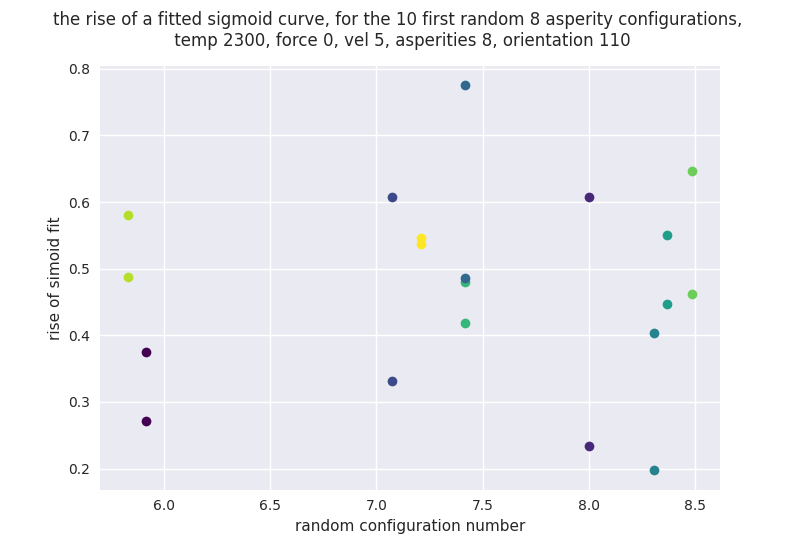
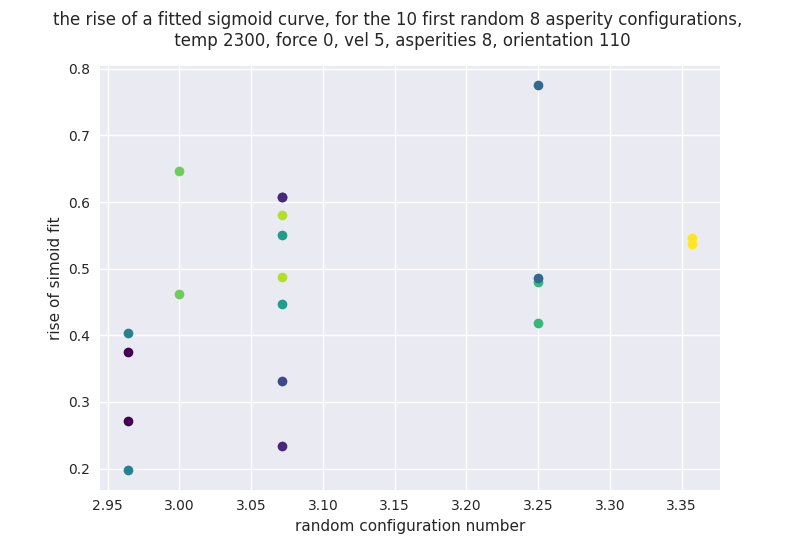
BREAKPOINT, norm seems to wkr

diff --git a/python/plot/plot_load_curves.py b/python/plot/plot_load_curves.py
@@ -24,17 +24,32 @@ def sigmoid(x, L ,x0, k, b):
     return (y)
 
 def rip_norm(matrix):
+    '''
+    script for finding average square norm with periodic boundary conditions
+    assumes 4x4 matrix
+    '''
     matrix = np.array(matrix)
+    print(matrix)
     indices = np.asarray(np.where(matrix==1.0)).T
-    x = indices[np.newaxis,:]
+    #goes from (1,8,2) to (8,8,2)
+    x = indices[np.newaxis,:] #this basically meshgrids a new axis
     y = indices[:,np.newaxis]
-    res = x-y
-    res = res - (np.round(res/4))*4
+    dist = x-y #subtract x and y to find distance
+    dist = dist - (np.round(dist/4))*4 #if distance is more than 2, the other way is shorter
     
-    #sum over øvre triangel i annen, del på 8
-    stop
-    return np.linalg.norm(indices)
+    norm = np.linalg.norm(dist, axis = 2)
+    norm = norm**2 #square so small differences are more apparent
+    res = np.sum(norm)/2 #matrix is symmetric, so upper triangle is just half of the sum
+    ones_matrix = np.ones((len(norm[0]), len(norm[1]))) #number of elements in upper triangle
+    res = res/((ones_matrix.sum() - np.trace(ones_matrix))/2)
+    print(res)
 
+    #sum over øvre triangel i annen, del på 8
+    return res
+
+def test_rip_norm():
+    a = np.array(([[0,0,0,0,],[0,1,1,0],[0,0,0,0],[0,0,0,0]]))
+    assert rip_norm(a) ==1
 
 def fit_sigmoid(load_curve, fig, axs):
     '''
@@ -728,34 +743,5 @@ if __name__ == '__main__':
     #plot_load_curves_as_funciton_of_top_thiccness()
     #load_vs_normal_force()
     #plot_single_loadcurve()
-    plot_production(temp, vel, force, uc, 8, time,orientation, grid, erratic, production = False)
-    """
-    stop
-
-    # select a few curves
-    select = [20, 40, 60, 80, 99]
-    push_times = asarray(push_times)[select]
-    times = [1, 2, 3, 4, 5]
-    load_curves = load_curves[select]
-    max_static = max_static[select]
-
-
-    # cut the curves
-    load_curves = load_curves[:, :600]
-
-
-    # plot selected curves with legends and max static force marked with a X
-    fig, ax = plt.subplots()
-    for i, time in enumerate(times):
-        plt.plot(load_curves[i, :, 0], load_curves[i, :, 1], label=fr'$t={time}$ ns')
-    for i, time in enumerate(push_times):
-        plt.plot(max_static[i, 0]-time, max_static[i, 1], 'kX', markersize=10)
-    plt.legend(loc='best')
-    plt.xlabel(r"$t_p$ [ns]")
-    plt.ylabel(r"$f$ [$\mu$N]")
-    plt.savefig(fig_dir + 'png/load_curves_2450_selected.png')
-    plt.savefig(fig_dir + 'pgf/load_curves_2450_selected.pgf')
-    #plt.show()
-    """
-
-
+    #plot_production(temp, vel, force, uc, 8, time,orientation, grid, erratic, production = False)
+    #test_rip_norm()
